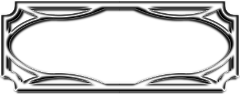
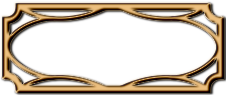
changed color scheme

diff --git a/rpg-docs/client/views/colors/colors.less b/rpg-docs/client/views/colors/colors.less
@@ -1,6 +1,6 @@
 /* LESS - http://lesscss.org style sheet */
 /* Palette color codes */
-/* Palette URL: http://paletton.com/#uid=70b0u0kw0aqkOe4l1FfXbp18V3P */
+/* Palette URL: http://paletton.com/#uid=7000K0kDPzIFM9PC5lZm-D39kMT */
 
 /* Feel free to copy&paste color codes to your application */
 
@@ -9,57 +9,57 @@
 
 /* As hex codes */
 
-@color-primary-0: #531300;	/* Main Primary color */
-@color-primary-1: #703827;
-@color-primary-2: #FF7D58;
-@color-primary-3: #C72D00;
-@color-primary-4: #1E1816;
+@color-primary-0: #FF0000;	/* Main Primary color */
+@color-primary-1: #4E0000;
+@color-primary-2: #AF0000;
+@color-primary-3: #FF4B4B;
+@color-primary-4: #FFB5B5;
 
-@color-secondary-1-0: #532D00;	/* Main Secondary color (1) */
-@color-secondary-1-1: #704F27;
-@color-secondary-1-2: #FFB358;
-@color-secondary-1-3: #C76C00;
-@color-secondary-1-4: #1E1B16;
+@color-secondary-1-0: #0961B0;	/* Main Secondary color (1) */
+@color-secondary-1-1: #021C33;
+@color-secondary-1-2: #063F71;
+@color-secondary-1-3: #4182BC;
+@color-secondary-1-4: #9DBCD7;
 
-@color-secondary-2-0: #032335;	/* Main Secondary color (2) */
-@color-secondary-2-1: #1B3847;
-@color-secondary-2-2: #4896C0;
-@color-secondary-2-3: #01537F;
-@color-secondary-2-4: #0E1213;
+@color-secondary-2-0: #FF9500;	/* Main Secondary color (2) */
+@color-secondary-2-1: #4E2E00;
+@color-secondary-2-2: #AF6700;
+@color-secondary-2-3: #FFB54B;
+@color-secondary-2-4: #FFE0B5;
 
-@color-complement-0: #003B1B;	/* Main Complement color */
-@color-complement-1: #1C4F34;
-@color-complement-2: #46CC84;
-@color-complement-3: #008D41;
-@color-complement-4: #101512;
+@color-complement-0: #00D200;	/* Main Complement color */
+@color-complement-1: #003F00;
+@color-complement-2: #008C00;
+@color-complement-3: #40D940;
+@color-complement-4: #A5E9A5;
 
 
 
 /* As RGBa codes */
 
-@rgba-primary-0: rgba( 83, 19,  0,1);	/* Main Primary color */
-@rgba-primary-1: rgba(112, 56, 39,1);
-@rgba-primary-2: rgba(255,125, 88,1);
-@rgba-primary-3: rgba(199, 45,  0,1);
-@rgba-primary-4: rgba( 30, 24, 22,1);
+@rgba-primary-0: rgba(255,  0,  0,1);	/* Main Primary color */
+@rgba-primary-1: rgba( 78,  0,  0,1);
+@rgba-primary-2: rgba(175,  0,  0,1);
+@rgba-primary-3: rgba(255, 75, 75,1);
+@rgba-primary-4: rgba(255,181,181,1);
 
-@rgba-secondary-1-0: rgba( 83, 45,  0,1);	/* Main Secondary color (1) */
-@rgba-secondary-1-1: rgba(112, 79, 39,1);
-@rgba-secondary-1-2: rgba(255,179, 88,1);
-@rgba-secondary-1-3: rgba(199,108,  0,1);
-@rgba-secondary-1-4: rgba( 30, 27, 22,1);
+@rgba-secondary-1-0: rgba(  9, 97,176,1);	/* Main Secondary color (1) */
+@rgba-secondary-1-1: rgba(  2, 28, 51,1);
+@rgba-secondary-1-2: rgba(  6, 63,113,1);
+@rgba-secondary-1-3: rgba( 65,130,188,1);
+@rgba-secondary-1-4: rgba(157,188,215,1);
 
-@rgba-secondary-2-0: rgba(  3, 35, 53,1);	/* Main Secondary color (2) */
-@rgba-secondary-2-1: rgba( 27, 56, 71,1);
-@rgba-secondary-2-2: rgba( 72,150,192,1);
-@rgba-secondary-2-3: rgba(  1, 83,127,1);
-@rgba-secondary-2-4: rgba( 14, 18, 19,1);
+@rgba-secondary-2-0: rgba(255,149,  0,1);	/* Main Secondary color (2) */
+@rgba-secondary-2-1: rgba( 78, 46,  0,1);
+@rgba-secondary-2-2: rgba(175,103,  0,1);
+@rgba-secondary-2-3: rgba(255,181, 75,1);
+@rgba-secondary-2-4: rgba(255,224,181,1);
 
-@rgba-complement-0: rgba(  0, 59, 27,1);	/* Main Complement color */
-@rgba-complement-1: rgba( 28, 79, 52,1);
-@rgba-complement-2: rgba( 70,204,132,1);
-@rgba-complement-3: rgba(  0,141, 65,1);
-@rgba-complement-4: rgba( 16, 21, 18,1);
+@rgba-complement-0: rgba(  0,210,  0,1);	/* Main Complement color */
+@rgba-complement-1: rgba(  0, 63,  0,1);
+@rgba-complement-2: rgba(  0,140,  0,1);
+@rgba-complement-3: rgba( 64,217, 64,1);
+@rgba-complement-4: rgba(165,233,165,1);
 
 
 

diff --git a/rpg-docs/client/views/character/character.css b/rpg-docs/client/views/character/character.css
@@ -12,15 +12,17 @@
 
 /*Float boxes are indivisble, have shadows*/
 .floatBox{
-	border-image-width: 90px 54px 50px 54px;
-	border-image-outset: 10px;
+	color: #301d02;
+	
+	border-image-width: 92px 60px 57px 60px;
+	border-image-outset: 15px;
 	border-image-source: url('/png/big-border.png');
-	border-image-slice: 271 163 151 163;
+	border-image-slice: 275 179 171 179;
 	border-image-repeat: stretch;
 	
-	padding: 5px 10px 5px 10px;
-	margin: 10px;
-	background: white;
+	padding: 0px 5px 5px 5px;
+	margin: 15px;
+	background: #f0e3d1;
 	border-radius: 20px;
 }
 
@@ -30,18 +32,10 @@
 
 /* headings in floatboxes */
 .floatBox h2{
-	background: black;
-	color: white;
 	font-size: 1em;
-	padding: 2px 15px;
-}
-
-.floatBox h2:first-child{
-	margin: -5px -5px 0px -5px;
 }
 
 .floatBox.rounded {
-	
 	display: inline-block;
 	text-align: center;
 }

diff --git a/rpg-docs/client/views/character/healthBar/healthBar.css b/rpg-docs/client/views/character/healthBar/healthBar.css
@@ -41,10 +41,9 @@
 	position: absolute;
 	left: -1px;
 	height: 0px;
-	border-width: 15px 40px 15px 40px;
-	width: 222px;
-	border-image: url('/png/bar-border.png') 44 120 49 119 stretch;
-	
+	width: 227px;
+	border-width: 15px 37px 16px 37px;
+	border-image: url('/png/bar-border.png') 46 112 48 112 stretch;
 	display: flex;
 	justify-content: center; /* align horizontal */
 	align-items: center; /* align vertical */

diff --git a/rpg-docs/client/views/general.css b/rpg-docs/client/views/general.css
@@ -4,4 +4,5 @@ root {
 
 body {
 	font-family: sans-serif;
+	background-color: #333;
 }
